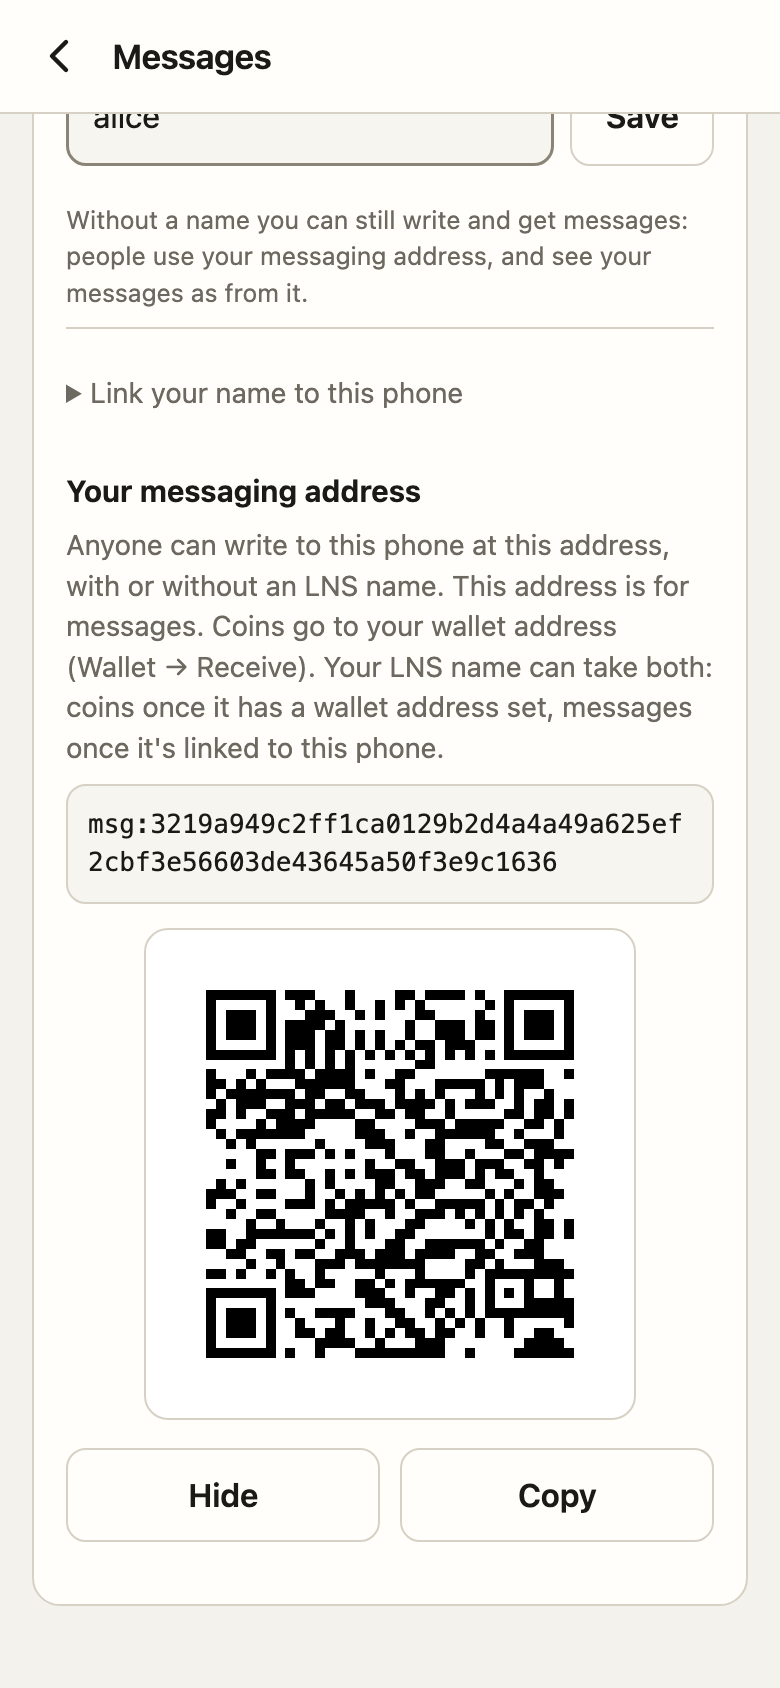
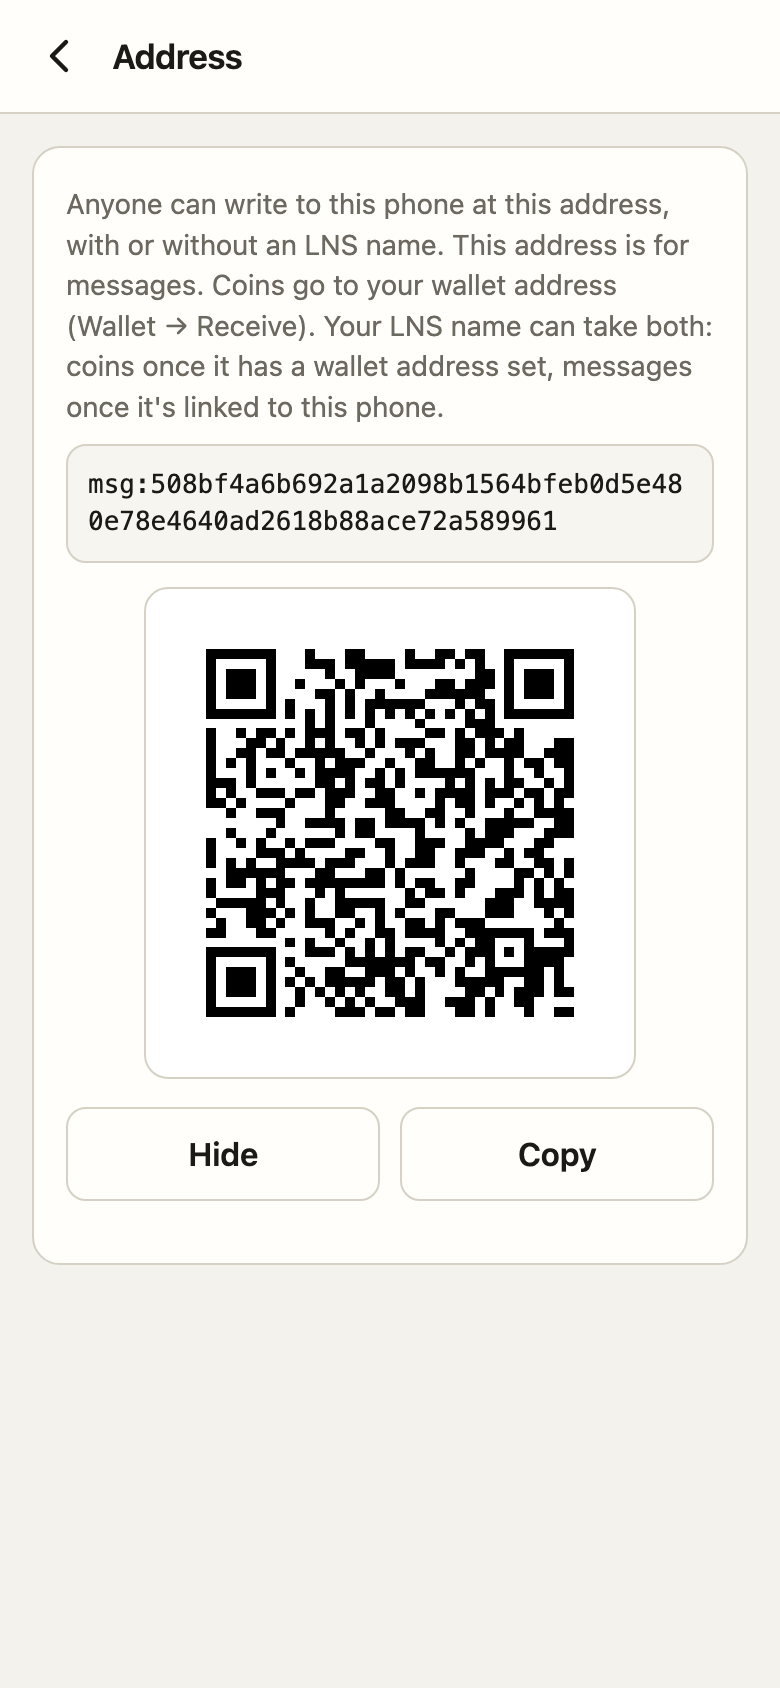
Settings > Messages as a short list: Name, Address
- Settings > Messages (also the gear on Messages) is a list of two rows, Name and Address, each with one
  line on where it stands and opening its own page with the controls it had (moved; ids and words kept).
  Name: your LNS name, whether it's linked to this phone, the folded linking step. Address: your messaging
  address with Show (and its QR code) and Copy. A new group is one line in MSG_GROUPS.
- Each page is a history step: Back (on screen or the phone's) goes from a page to the list, then to where
  Settings > Messages was opened from. Unlocking returns to the same page. The hint on Messages opens Name.
- index.html: one line, so the bar's Back asks Messages first.
- release.json hashes refreshed (version unchanged, 0.9.9) for CI's release check.
- UI test: the rows and their order, each page and Back (button and history), every id of 0.9.8's Messages
  page on exactly one page, and a locked page keeps no name or address, not even hidden. Screenshots.

diff --git a/app/messages/messages.js b/app/messages/messages.js
@@ -174,6 +174,7 @@ setTab("wallet");
 const pageOpenSettings = window.openSettings, pageCloseSettings = window.closeSettings;
 window.openSettings = (...a) => {
   msgSettingsUi(true);
+  if (a[0] === "s-msg") mgsShow("list");
   pageOpenSettings(...a); page.hidden = true; nav.hidden = true; document.body.classList.remove("has-nav");
 };
 window.closeSettings = () => { pageCloseSettings(); nav.hidden = false; document.body.classList.add("has-nav"); setTab(tab); };
@@ -217,10 +218,12 @@ page.innerHTML = `
 `;
 
 // ---- Messages in the one Settings page: your name and how to link it, your messaging address ----
-const msgSettings = el("section", { className: "card", id: "s-msg", ariaLabelledby: "h-s-msg", hidden: true });
+const msgSettings = el("section", { id: "s-msg", ariaLabelledby: "h-s-msg", hidden: true });
 msgSettings.innerHTML = `
   <h2 id="h-s-msg">Messages</h2>
-  <h3 style="margin-top:0">Your name</h3>
+  <div class="card groups" id="mgs-list"></div>
+  <div class="card" id="mgs-name" hidden>
+  <h3 class="vh">Your name</h3>
   <p class="msg" id="mg-check-m" role="status" style="margin-top:0"></p>
   <div class="pwrow"><input id="mg-name" type="text" autocapitalize="off" autocorrect="off" spellcheck="false" maxlength="40" placeholder="yourname" aria-label="Your LNS name"><button type="button" id="mg-name-save">Save</button></div>
   <p class="msg" id="mg-name-m" role="status"></p>
@@ -233,14 +236,72 @@ msgSettings.innerHTML = `
       <button type="button" id="mg-copy" style="width:100%;margin-top:10px">Copy command</button>
     </details>
   </details>
-  <h3>Your messaging address</h3>
+  </div>
+  <div class="card" id="mgs-addr" hidden>
+  <h3 class="vh">Your messaging address</h3>
   <p class="note" style="margin-top:0">Anyone can write to this phone at this address, with or without an LNS name. This address is for messages. Coins go to your wallet address (Wallet → Receive). Your LNS name can take both: coins once it has a wallet address set, messages once it's linked to this phone.</p>
   <code class="cmd" id="mg-addr" hidden></code>
   <div class="qr-wrap" id="mg-addr-qr" hidden></div>
   <div class="row"><button type="button" id="mg-addr-show" aria-controls="mg-addr" aria-expanded="false">Show</button><button type="button" id="mg-addr-copy">Copy</button></div>
-  <p class="msg" id="mg-addr-m" role="status"></p>`;
+  <p class="msg" id="mg-addr-m" role="status"></p>
+  </div>`;
 $("s-slot").append(msgSettings);
-// Settings > Messages and the gear on Messages open this same page (Settings' Messages group)
+// Settings > Messages and the gear on Messages open this same page (Settings' Messages group): a short list,
+// each row opening its own page inside it. Each page is a history step, so Back (on screen or the phone's)
+// goes from a page to the list, and from the list to where Settings > Messages was opened from.
+// To add a group: one line here, and a <div class="card" id="mgs-ID" hidden> with its controls above.
+const MSG_GROUPS = [
+  { id: "name", label: "Name", icon: '<circle cx="12" cy="8.5" r="3.6"/><path d="M5 19.5c.9-3.4 3.7-5.3 7-5.3s6.1 1.9 7 5.3"/>', state: nameState1 },
+  { id: "addr", label: "Address", icon: '<rect x="4" y="4" width="6.5" height="6.5" rx="1"/><rect x="13.5" y="4" width="6.5" height="6.5" rx="1"/><rect x="4" y="13.5" width="6.5" height="6.5" rx="1"/><path d="M13.5 13.5h2.5v2.5M20 13.5v.1M16 20h4v-3.5"/>',
+    state: () => "Show it, copy it, or let them scan it" },
+];
+function nameState1() {         // "linked" only once the name service said so
+  if (!me) return "";
+  if (!me.name) return "None yet";
+  const c = chat && chat.chainOf(me.name);
+  if (!c) return me.name;
+  if (c.key === me.public) return me.name + " · linked to this phone";
+  return [me.name + (c.registered ? " · not linked yet" : " · not registered"), "warn"];
+}
+let mgsSub = "list", mgsIgnore = 0;
+function msgRows() {
+  for (const g of MSG_GROUPS) {
+    if (!g.row) {
+      const b = el("button", { type: "button", className: "grow", id: "mgs-go-" + g.id });
+      b.innerHTML = '<span class="gi"></span><span class="gt"><b></b><small></small></span><span class="gc"><svg viewBox="0 0 24 24" width="20" height="20" aria-hidden="true" focusable="false"><path d="M9 5l7 7-7 7" fill="none" stroke="currentColor" stroke-width="2.2" stroke-linecap="round" stroke-linejoin="round"/></svg></span>';
+      b.querySelector(".gi").innerHTML = GI(g.icon); b.querySelector("b").textContent = g.label;
+      b.addEventListener("click", () => mgsOpen(g.id));
+      $("mgs-list").append(b); g.row = b;
+    }
+    let st = ""; try { st = me ? g.state() : ""; } catch (e) {}     // locked: nothing kept
+    const [text, cls] = Array.isArray(st) ? st : [st, ""], sm = g.row.querySelector("small");
+    if (sm.textContent !== text) sm.textContent = text;
+    sm.className = cls || ""; g.row.setAttribute("aria-label", g.label + (text ? ". " + text : ""));
+  }
+}
+/** Shows the list ("list") or one page of Settings > Messages, with its title in the bar. */
+function mgsShow(sub) {
+  const g = MSG_GROUPS.find(x => x.id === sub) || null;
+  mgsSub = g ? g.id : "list";
+  $("mgs-list").hidden = !!g;
+  for (const x of MSG_GROUPS) $("mgs-" + x.id).hidden = x !== g;
+  if (!$("page-settings").hidden && $("st-msg") && !$("st-msg").hidden) $("h-settings").textContent = g ? g.label : "Messages";
+  msgRows();
+}
+function mgsOpen(sub) { history.pushState({ st: "msg", sub }, ""); mgsShow(sub); window.scrollTo(0, 0); }
+const mgsHere = () => !$("page-settings").hidden && !!$("st-msg") && !$("st-msg").hidden;
+window.stSubBack = () => {      // the bar's Back on a page of Settings > Messages: up to the list
+  if (!mgsHere() || mgsSub === "list") return false;
+  if (history.state && history.state.sub) { mgsIgnore++; history.back(); }
+  mgsShow("list"); window.scrollTo(0, 0); return true;
+};
+addEventListener("popstate", e => {    // the phone's Back
+  if (mgsIgnore) { mgsIgnore--; return; }
+  if (!mgsHere()) return;
+  const sub = (e.state && e.state.st === "msg" && e.state.sub) || "list";
+  if (sub !== mgsSub) { mgsShow(sub); window.scrollTo(0, 0); }
+});
+setInterval(() => { if (mgsHere() && mgsSub === "list") msgRows(); }, 1000);
 const openMsgSettings = () => { openSettings("s-msg"); };
 /** Shows the Messages section while messages are on and loaded; fills it again when asked (`fresh`) or when
  *  the messaging identity changed, so a refresh never clears what is being typed. */
@@ -250,7 +311,7 @@ function msgSettingsUi(fresh = false) {
   msgSettings.hidden = !on;
   if (!on) meShown = null;
   else if (fresh || meShown !== me) { meShown = me; openMe(); }
-  stRows();                              // Settings' Messages row follows (and forgets the name on a lock)
+  msgRows(); stRows();                              // Settings' Messages row follows (and forgets the name on a lock)
 }
 /** Settings' Messages row: one line on your LNS name; "linked" only once the name service said so. */
 window.msgSettingsState = () => {
@@ -369,7 +430,7 @@ function renderHint() {
   h.hidden = !!me.name || !!ui.nameHint || view !== "home";
   if (h.hidden) return;
   const go = el("button", { type: "button", className: "lnk", textContent: "Messages settings" });
-  go.addEventListener("click", openMsgSettings);
+  go.addEventListener("click", () => { openMsgSettings(); mgsOpen("name"); });
   const x = el("button", { type: "button", className: "x", ariaLabel: "Close the hint" }, svg(P.close, 18));
   x.addEventListener("click", async () => { h.hidden = true; try { await chat.mutate(st => { st.ui = Object.assign({}, st.ui, { nameHint: true }); }); } catch (e) {} });
   h.replaceChildren(el("p", {}, "People can write to you at your messaging address. To be found by your LNS name, link it in ", go, "."), x);

diff --git a/app/index.html b/app/index.html
@@ -696,6 +696,7 @@ try { if (history.state && history.state.st) history.replaceState(null, ""); } c
 try { history.scrollRestoration = "manual"; } catch (e) {}      // each level starts at its top; the browser doesn't move it
 function stUp() { if (stLevel !== "home" && !stDeep) { stShow("home"); window.scrollTo(0, 0); } else closeSettings(); }
 function settingsBack() {
+  if (typeof window.stSubBack === "function" && window.stSubBack()) return;    // a page inside a group (Messages) goes up first
   if (history.state && history.state.st) { stIgnore++; history.back(); }
   stUp();
 }

diff --git a/docs/messages.md b/docs/messages.md
@@ -9,8 +9,10 @@ app and its page are exactly as before.
 - **Messages** in the bar at the bottom of the page. It locks with the wallet: the same PIN or fingerprint
   opens both, and auto-lock closes both.
 - **Turn on messages** makes this phone's messaging identity. Nothing key-like is shown on the everyday
-  screens. Settings (the gear) has a Messages page, the same one the gear on Messages opens: your name and
-  whether it's linked to this phone, the folded step that links it, and your messaging address (Show / Copy).
+  screens. Settings (the gear) has a Messages page, the same one the gear on Messages opens. It is a short
+  list: **Name** (your LNS name and whether it's linked to this phone, with the folded step that links it)
+  and **Address** (your messaging address: Show, with its QR code, and Copy). Each opens its own page; Back
+  goes to the list, then to where you opened it.
 - The Messages screen has its own top: the title, **+** (New chat) and the gear; no node header there. Under
   the title, one small grey line only when the messaging node isn't fine: "Connecting…" or "Offline"
   (inside the Android app with a button to open the node). The Wallet / Messages bar steps aside while a
